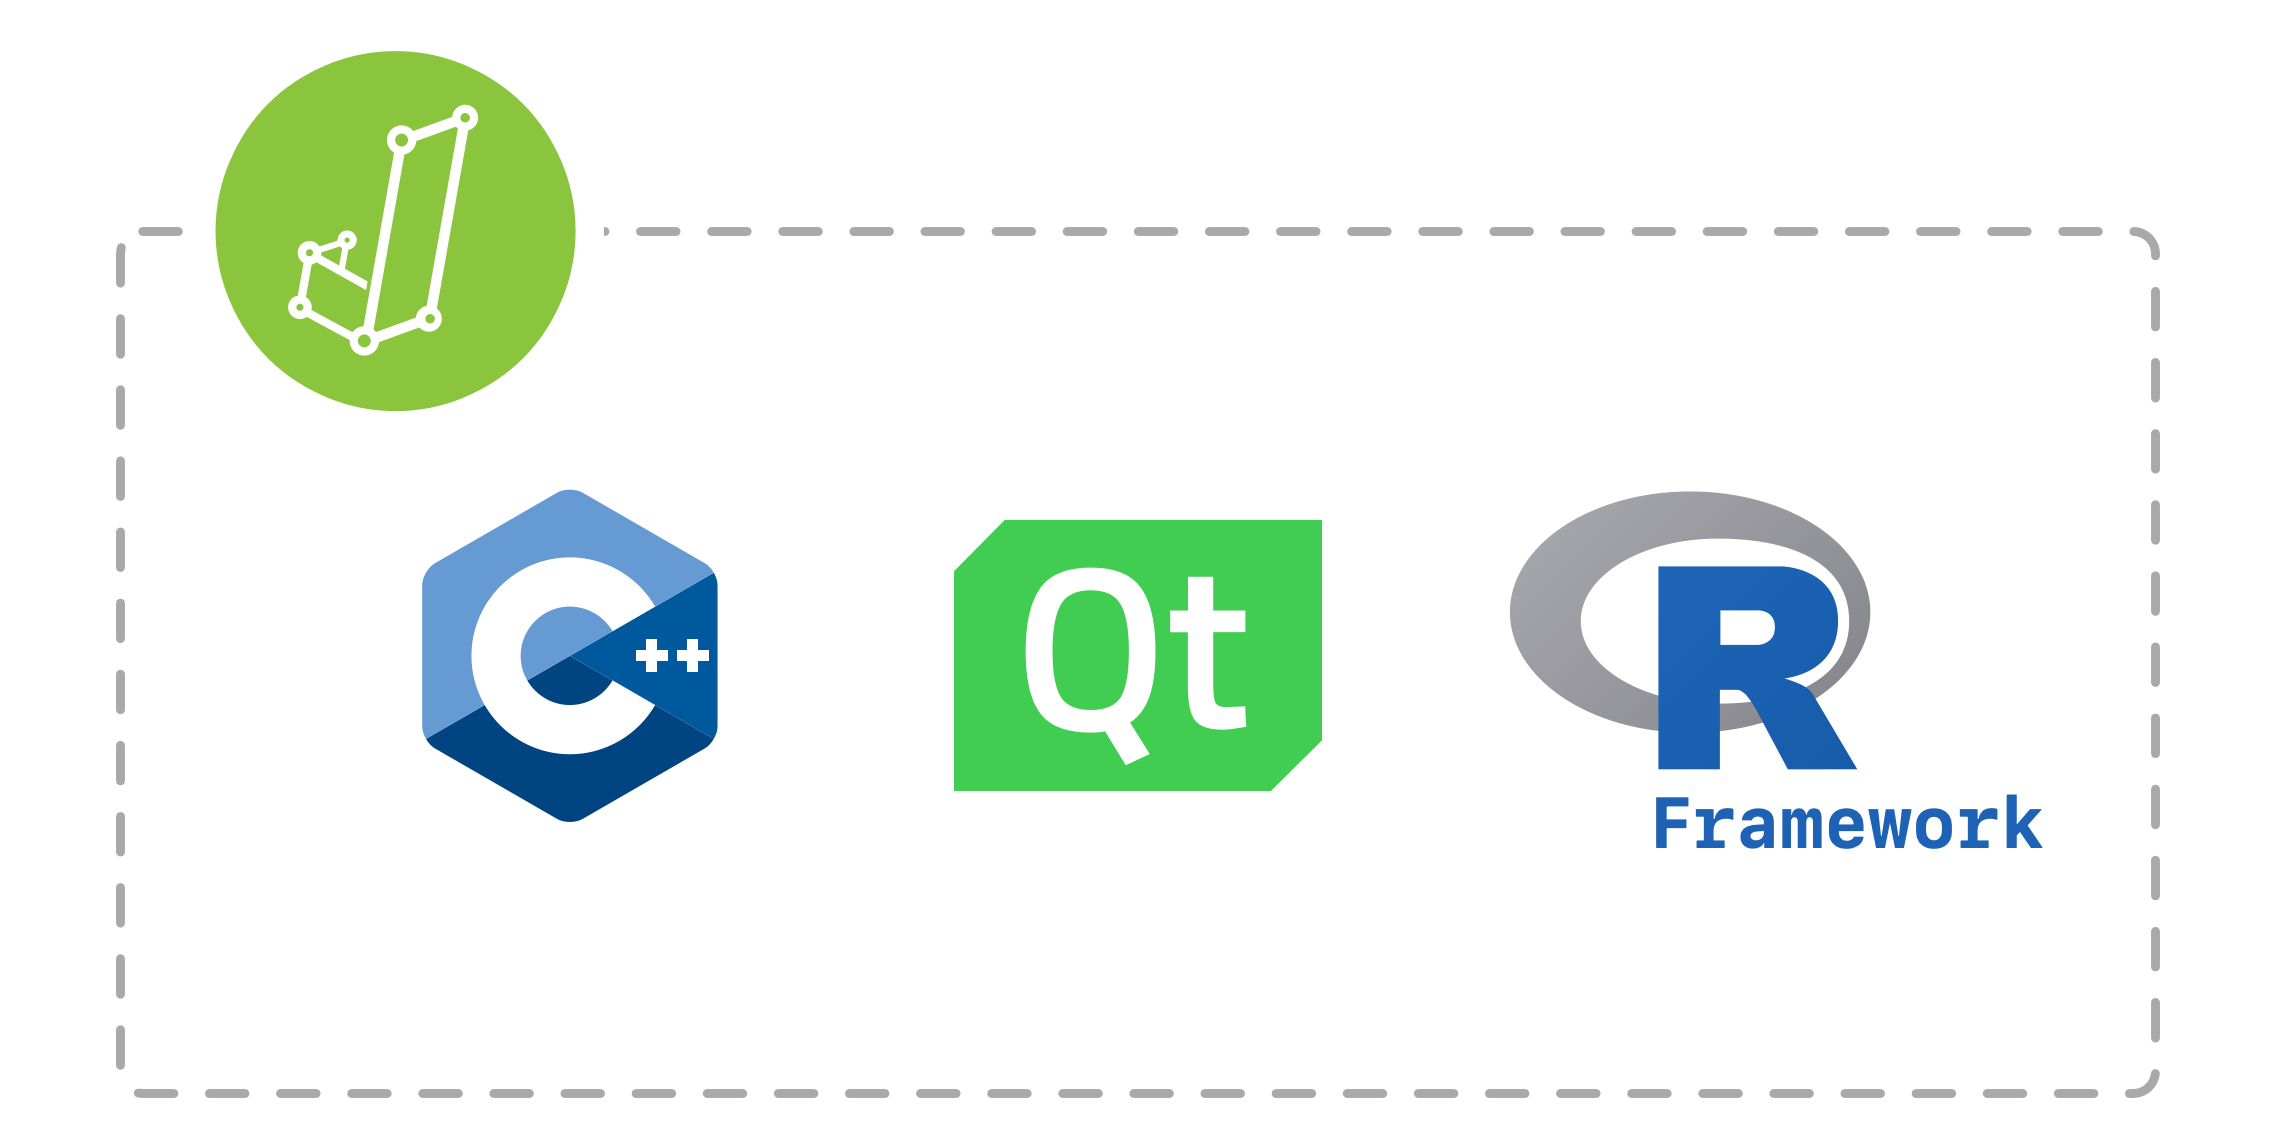
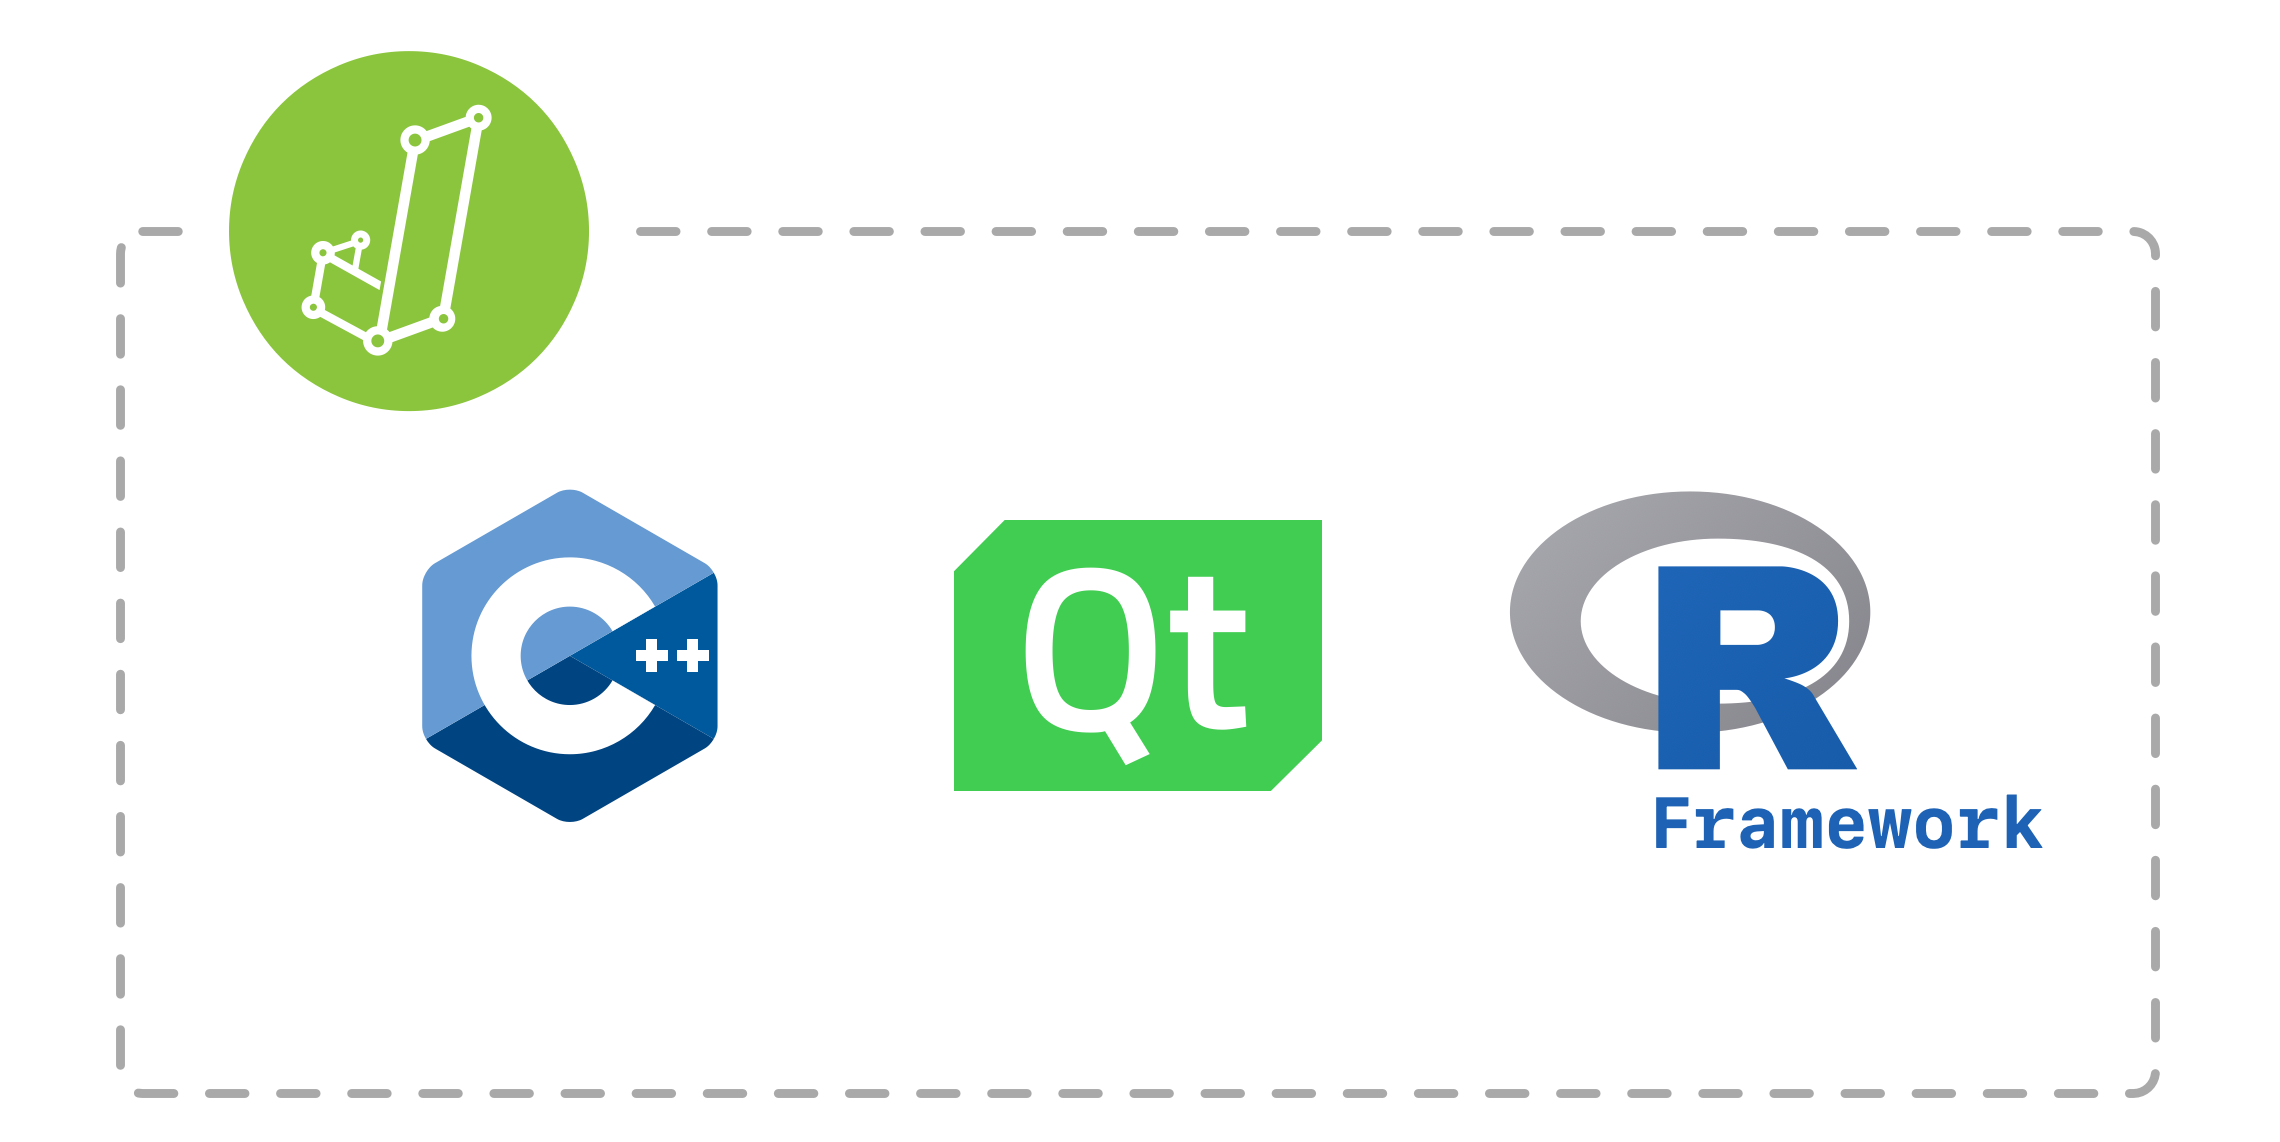
updated a few images

diff --git a/_posts/2022-04-10-embedding-rframework-in-a-qt-mac-app-and-cross-compiling-for-two-architectures.md b/_posts/2022-04-10-embedding-rframework-in-a-qt-mac-app-and-cross-compiling-for-two-architectures.md
@@ -10,7 +10,7 @@ description: How to Bundle the R.framework with Your macOS App
 hidden: true # don't count this post in blog pagination
 ---
 
-<img src="/assets/posts/embedding-r-framework.png" style="float:right; width: 30%;" />
+<picture><source srcset="/assets/posts/embedding-r-framework-dark.png" media="(prefers-color-scheme: dark)"><img src="/assets/posts/embedding-r-framework-light.png" width="50%" align="right" float="right"/></picture>
 Developing for Apple platform *can be* fun if your app lives solely inside Xcode, and you only utilize standard libraries, or don't interact with any alien libraries or frameworks. In that case, there is a high chance that you have never been worried about compatibility issues, linking problems, signing struggles and the notarization*!* 
 
 However, if your software is built on top of a different GUI framework rather than UIKit, e.g., Qt Framework, and you need all sort of other libraries; then you are familiar with the pain of getting them to know each other, link together properly, and build into one coherent piece of software. Finally, you are going to prepare your App Bundle, sign it, and send it to Apple for notarization and start praying! Now, add the **`R.framework`** or any other non-standard framework to the mix, and you are very close to the definition of nightmare.[^1]
